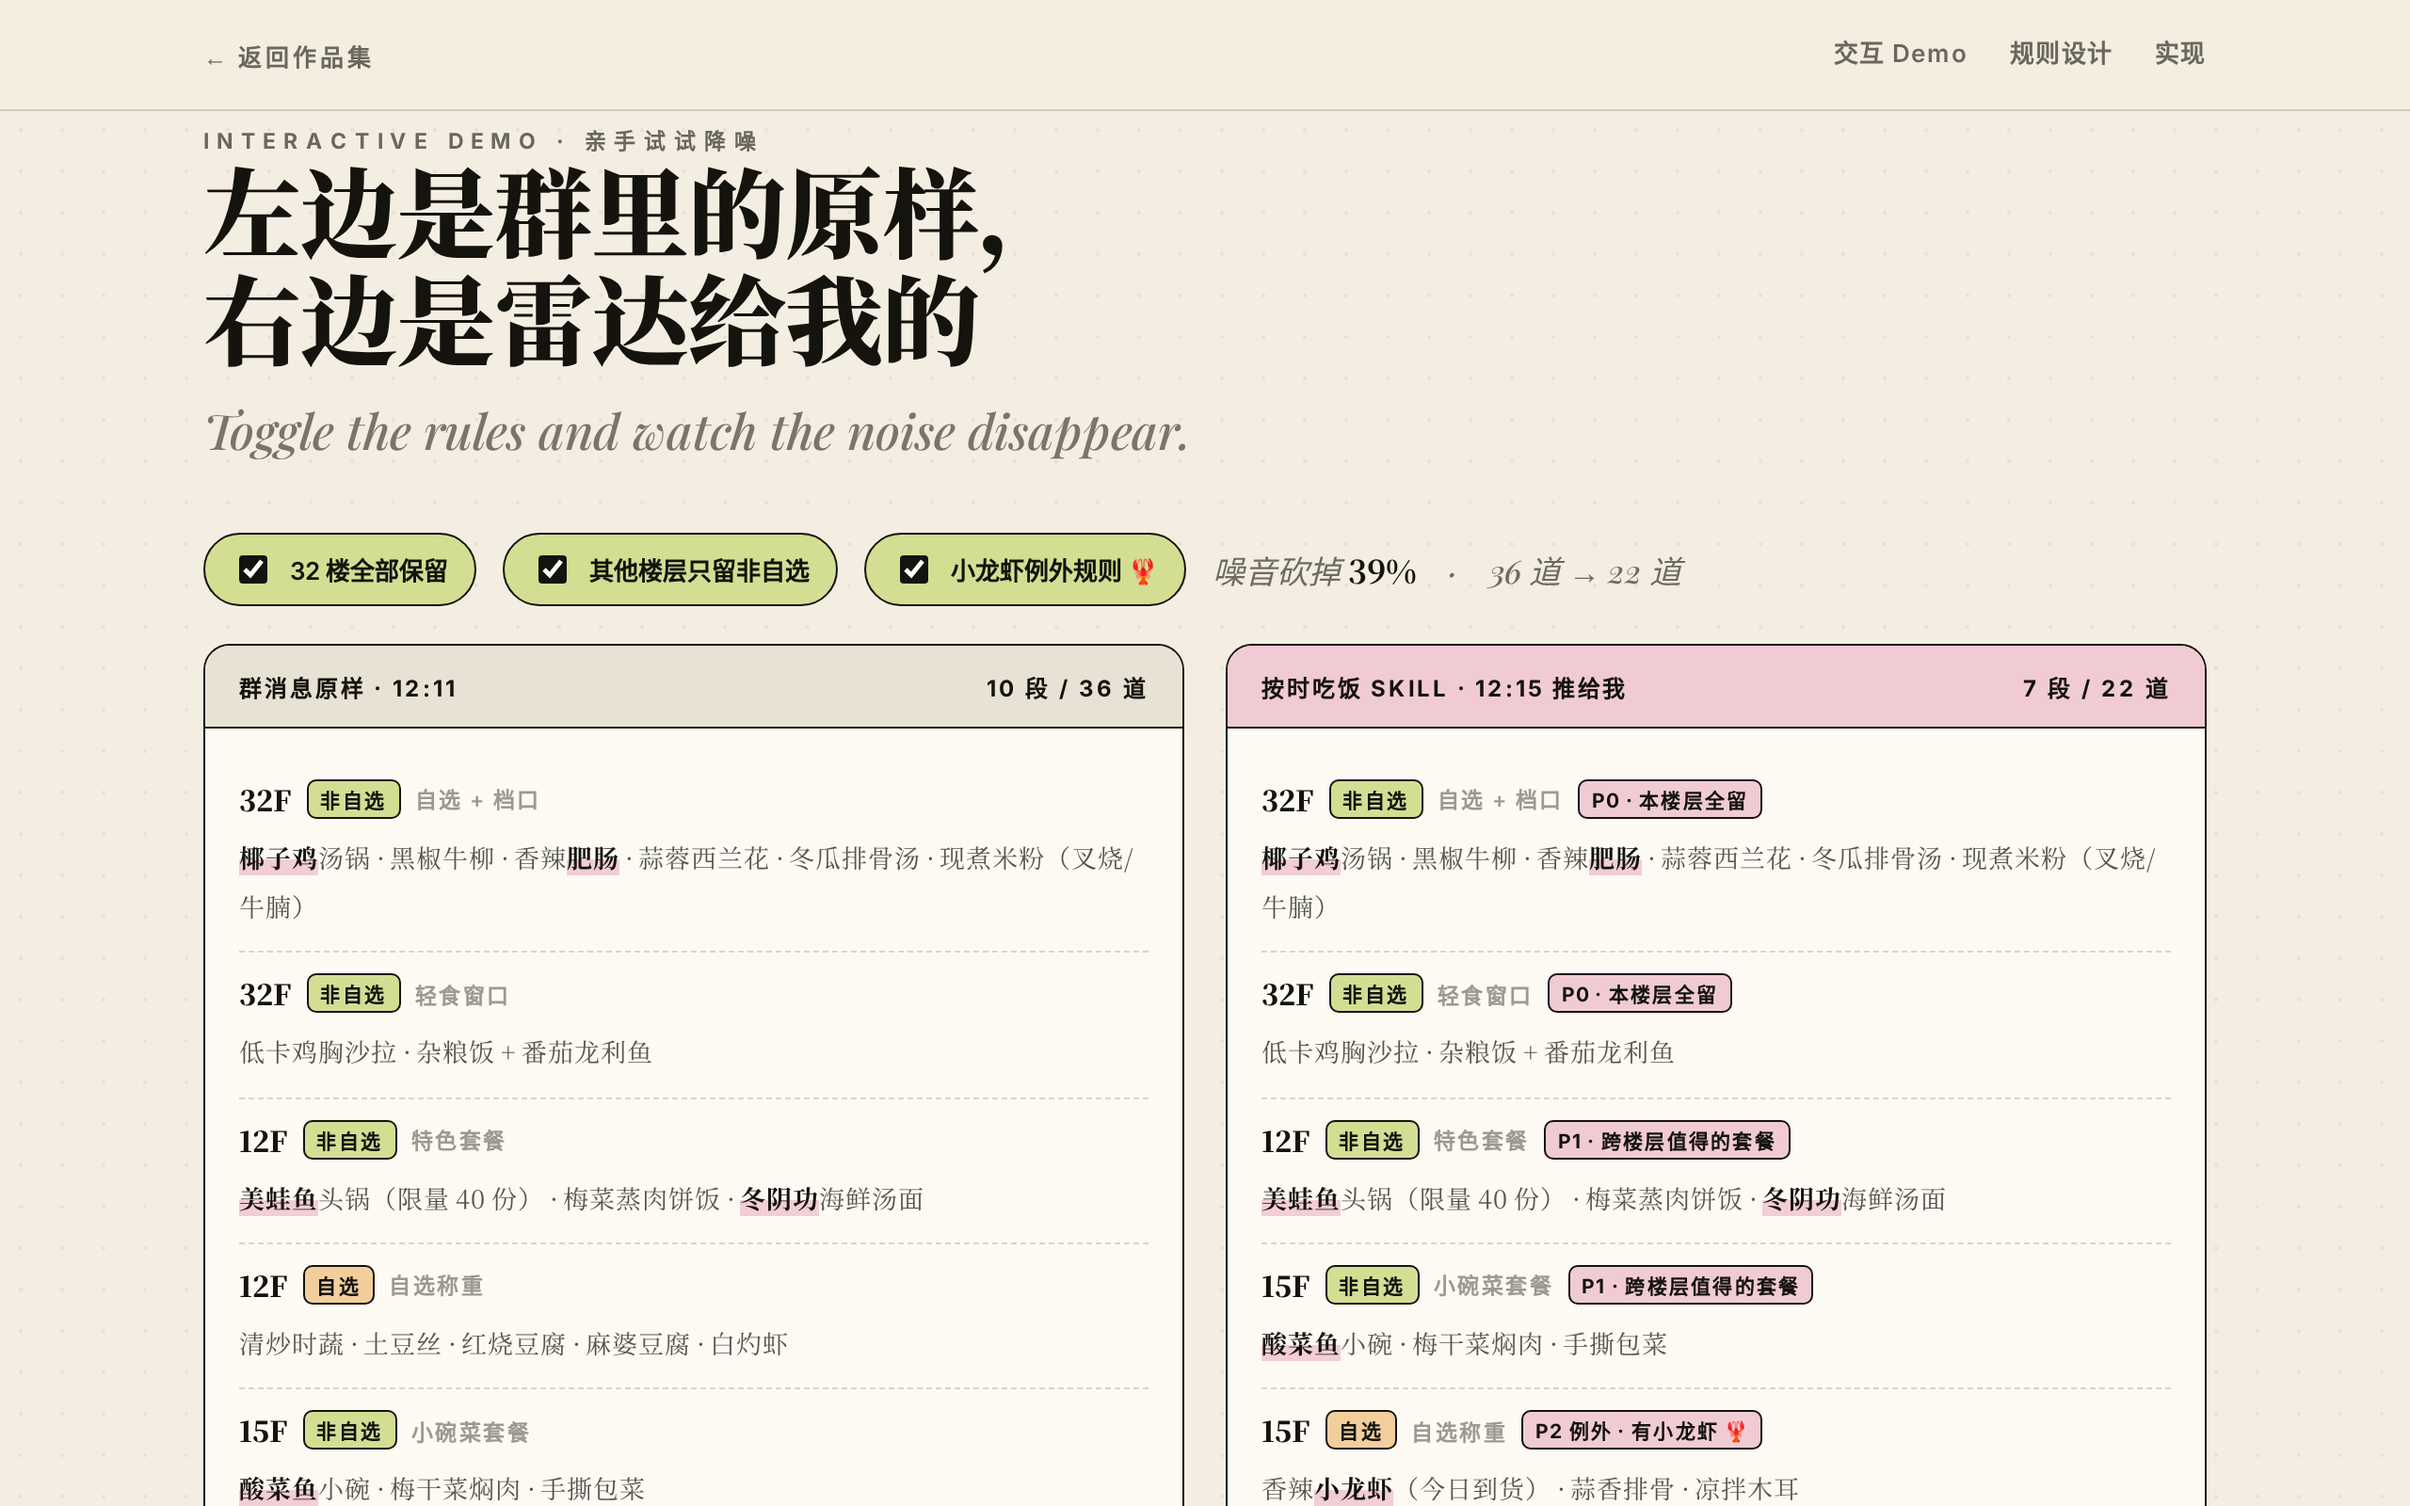
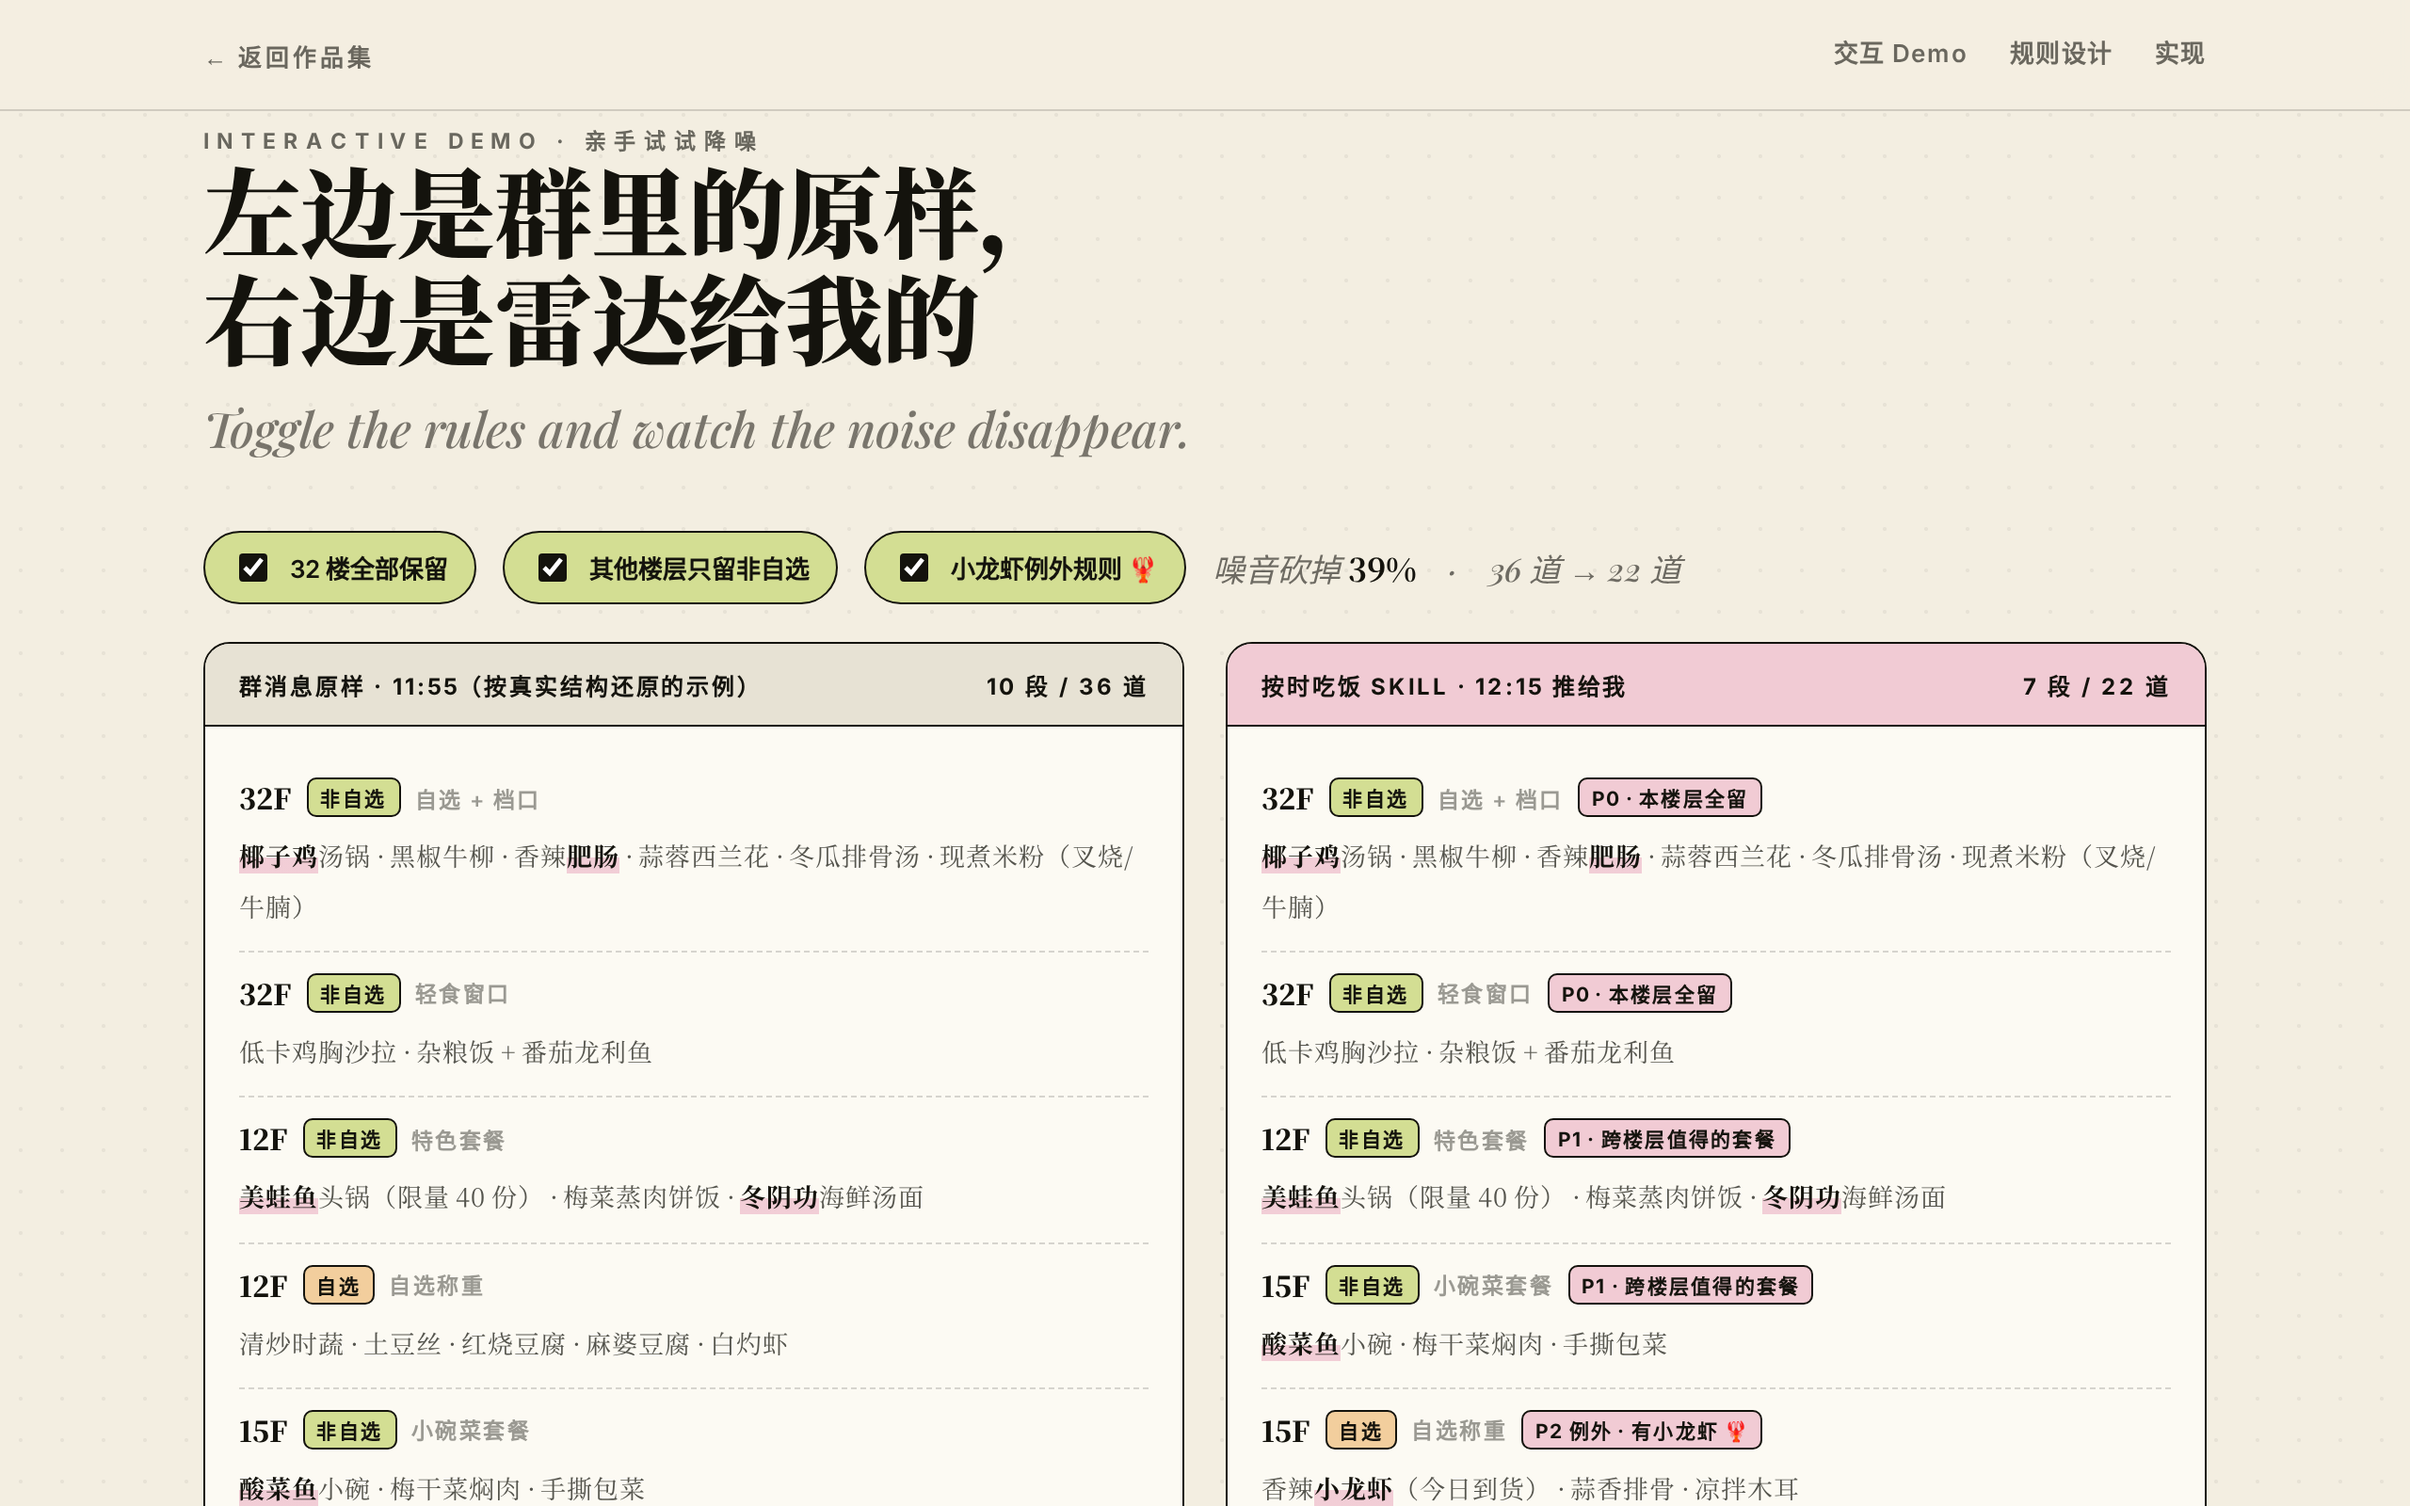
按时吃饭：补充真实场景（菜单被排队通知刷走）与 8/14 真实推送示例

diff --git a/works/lunch/index.html b/works/lunch/index.html
@@ -60,19 +60,22 @@
   <hr class="rule-thick" />
   <div class="two" style="margin-top:26px;">
     <p style="margin:0;">
-      深圳湾的餐饮话题群每天中午会刷出七八层楼的午餐预告，几十道菜混在一起。我真正需要的信息只有三种：
-      <b>32 楼的全部菜单</b>（我常在的楼层）、<b>其他楼层的非自选</b>（值得专门跑一趟的套餐），
-      以及一个例外——<b>其他楼层的自选里如果有小龙虾，必须告诉我</b>。
+      12:00 开饭，餐饮群 11:55 左右把各楼层菜单刷出来；可我基本没法 12 点就下去。
+      而一到 12:00，各楼层餐厅开始发排队通知，<b>菜单立刻被刷到上面去了</b>——
+      于是每次十二点多想吃饭，我都要在群里往上翻半天找菜单。这就是这个 Skill 要解决的第一件事：
+      <b>把 11:40–12:10 那个时间窗的菜单替我捞回来</b>，别让我翻。
     </p>
     <p style="margin:0;">
-      所以这个 Skill 不是「菜单聚合器」，而是一个<b>带例外规则的降噪器 + 一个赶人去吃饭的闹钟</b>：
-      12:15 把过滤后的菜单转给我，12:30 如果我还在工位，就直接告诉我哪个饭堂有我爱吃的菜。
+      但它的第一目标其实不是筛信息，而是<b>提醒我按时吃饭</b>。
+      直接说「该吃饭了」我会顺手划掉，可要是告诉我「12F 今天有美蛙鱼」，我立刻就想起来该下楼了。
+      所以推送必须<b>口语化、像朋友催你</b>：哪层楼有我爱吃的什么、32F 有什么、哪边排队少、再晚就只剩汤——
+      降噪只是让这句催饭话足够具体。
     </p>
   </div>
   <div class="meta-row">
     <div>形态<b>Aime Agent Skill + 定时任务</b></div>
     <div>触发<b>工作日 12:15 / 12:30</b></div>
-    <div>数据源<b>飞书「深圳湾餐饮话题群③」</b></div>
+    <div>数据源<b>餐饮群 11:40–12:10 菜单 + 12:00 后排队通知</b></div>
     <div>状态<b>Skill 已上线 · 12:15 / 12:30 定时任务已配置</b></div>
   </div>
 </header>
@@ -98,7 +101,7 @@
 
     <div class="demo">
       <div class="panel">
-        <div class="panel-head raw"><span>群消息原样 · 12:11</span><span id="rawCount"></span></div>
+        <div class="panel-head raw"><span>群消息原样 · 11:55（按真实结构还原的示例）</span><span id="rawCount"></span></div>
         <div class="panel-body" id="rawBody"></div>
       </div>
       <div class="panel">
@@ -129,6 +132,42 @@
           小龙虾是清单里唯一有「越级权限」的菜：它可以打破「其他楼层不看自选」的规则。
           这就是我想强调的产品判断——<b>降噪的关键不是砍得干净，而是留对例外</b>。
         </p>
+      </div>
+    </div>
+
+    <div style="margin-top:34px;">
+      <div class="eyebrow" style="margin-bottom:12px;">上线后的真实推送 · 用 8/14（周五）真实菜单跑出来的一条</div>
+      <div class="two">
+        <div class="lark-card">
+          <div class="lark-top"><span>🍽 12:30 啦，别写了，先去吃饭！</span><span style="font-family:'Inter';font-size:12px;font-weight:600;">模拟推送</span></div>
+          <div class="lark-body" style="font-size:13.5px;">
+            ❤ <b>32F-B区「自选粉面」</b>有你爱的「<span style="background:linear-gradient(transparent 58%, rgba(241,203,212,.95) 58%);font-weight:700;">爆炒肥肠🌶</span>」（配炸鸡排），这个必须冲。<br />
+            　　同档还有：胡萝卜面 / 红薯粉 / 猪肉白菜水饺、青椒鸡蛋炒火腿、蒜蓉上海青、卤蛋煎蛋。<br /><br />
+            🏢 <b>32F 其他选择</b>：「猪角」档口（图片菜单，见群里原文）；<br />
+            　　嫌排队就直接拿盒饭 —— A套餐 蒜蓉粉丝蒸扇贝+回锅牛肉🌶，B套餐 三色牛肉拌饭。<br /><br />
+            🚶 <b>排队情况</b>：21F / 32F / 35F / 36F / 47F / A7 / B7 都已经发过开餐排队通知了，开餐半小时，这会儿下去正好错峰。不想挤 32F 的话，36F「沸腾麻辣烫」今天有肥羊、猪肉小酥肉。<br /><br />
+            ⏰ 自助餐线 13:30 收档，再晚下去就只剩汤和加时盒饭了 —— 现在就走！🏃♀
+          </div>
+          <div class="lark-foot">数据来源：深圳湾餐饮话题群③ 2026-08-14 11:40–12:07 的真实菜单与排队通知</div>
+        </div>
+        <div>
+          <p style="margin-top:0;font-size:14.5px;">
+            这条是真的从群里跑出来的，不是写的样例。可以对照看它做了三件事：
+          </p>
+          <p style="font-size:14.5px;">
+            <b>① 先说人话再说信息。</b>开头不是「今日菜单如下」，而是「别写了，先去吃饭」——
+            因为它的任务是把我从工位上叫走，不是给我一份报表。
+          </p>
+          <p style="font-size:14.5px;">
+            <b>② 爱吃的菜必须出现在第一行。</b>当天文本菜单里只命中了「肥肠」，那就把肥肠顶到最前面，
+            后面才是同档其他菜——决定我几点下楼的就是这一句。
+          </p>
+          <p style="font-size:14.5px;margin-bottom:0;">
+            <b>③ 看不见的东西如实说。</b>21F、47F、A7 的菜单是纯图片，它写「图片菜单，见群里原文」；
+            排队长短只画在图里、文本读不到，它就只说「都已开餐、这会儿正好错峰」，
+            <b>不假装自己知道哪层排队少</b>。
+          </p>
+        </div>
       </div>
     </div>
   </div>
@@ -184,7 +223,7 @@
       <div style="background:var(--pink);">
         <div class="t">12:15 CRON</div>
         <h4>读群</h4>
-        <p>定时任务唤起 Skill，按群名定位「深圳湾餐饮话题群③」，取当天 11:00 之后含「午餐 / 预告 / 菜单」的最新消息。</p>
+        <p>不看「最新一条」——因为 12:00 后的排队通知早把菜单刷走了。按 <b>11:40–12:10</b> 时间窗回捞当天全部菜单消息，再顺手收下排队通知。</p>
       </div>
       <div style="background:var(--olive);">
         <div class="t">PARSE</div>
@@ -199,7 +238,7 @@
       <div style="background:var(--sky);">
         <div class="t">12:30 CRON</div>
         <h4>发消息</h4>
-        <p>过滤结果私聊发给我；12:30 复用同一份结果生成提醒话术，含「哪层楼有你爱吃的什么」。</p>
+        <p>过滤结果私聊发给我；12:30 复用同一份结果生成口语化催饭话术：哪层楼有你爱吃的什么、哪边排队少、再晚就只剩汤。</p>
       </div>
     </div>
 
@@ -210,6 +249,7 @@
           <div class="step olive"><div class="num">01</div><div><h4>预告不是一条，而是一堆话题</h4><p>它是话题群，每天 11:32–11:59 由餐厅客服分楼层发多张卡片。所以定位方式不是「找最新一条」，而是按当天时间窗口捞主流里的全部预告。</p></div></div>
           <div class="step pink"><div class="num">02</div><div><h4>32F 根本没有独立卡片</h4><p>它混在「B7/32/47 餐厅-午餐预告」这一张卡里。这条发现直接改了实现方式：楼层判断必须下沉到段落级（如 <b>32F-B区-「自选粉面」</b>），按卡片分类会全错。</p></div></div>
           <div class="step apricot"><div class="num">03</div><div><h4>「自选」有三种叫法</h4><p>自选餐线 / 自选粉面 / 轻食自助。规则里写死一个词就会漏，所以按关键词族匹配，而不是全等判断。</p></div></div>
+          <div class="step lilac" style="background:var(--lilac);"><div class="num">05</div><div><h4>12:50 的售罄卡是最好的催饭素材</h4><p>群里 12:50 后会发纯文本的售罄通知（如「47F 蒜香骨已售罄」）。句式稳定、可解析——但它比 12:30 晚，所以按时段过滤，只在更晚的提醒里引用，不能拿来编造 12:30 的现场情况。</p></div></div>
           <div class="step sky"><div class="num">04</div><div><h4>有些楼层只发图片</h4><p>21F、A7 的菜单是纯图。这种情况下我选择<b>标注「图片菜单，见原文」</b>，而不是断言「今天没有你爱吃的」——宁可承认看不见，也不给假结论。</p></div></div>
         </div>
       </div>

diff --git a/index.html b/index.html
@@ -130,10 +130,10 @@
         </div>
         <img class="work-shot" src="assets/shots/lunch.png" alt="按时吃饭 Skill 展示页截图" loading="lazy" />
         <div class="work-body">
-          <p class="pain">深圳湾每天 12:15 群里刷出七八层楼的菜单，<b>我只关心 32 楼和别层的非自选</b>——但小龙虾例外，有就必须知道。</p>
+          <p class="pain">11:55 发的菜单，一到 12:00 就被排队通知刷走了。我十二点多才想吃饭，得在群里往上翻半天。<b>它替我把菜单捞回来，再用「12F 有美蛙鱼」把我从工位上叫走。</b></p>
           <div class="metrics">
-            <div><b>12:15</b>只留有用的那几行</div>
-            <div><b>12:30</b>还在工位就来一句</div>
+            <div><b>11:40–12:10</b>时间窗回捞菜单</div>
+            <div><b>12:30</b>口语化催我下楼</div>
             <div><b>6 道</b>爱吃的菜自动匹配</div>
           </div>
           <div class="chips">
